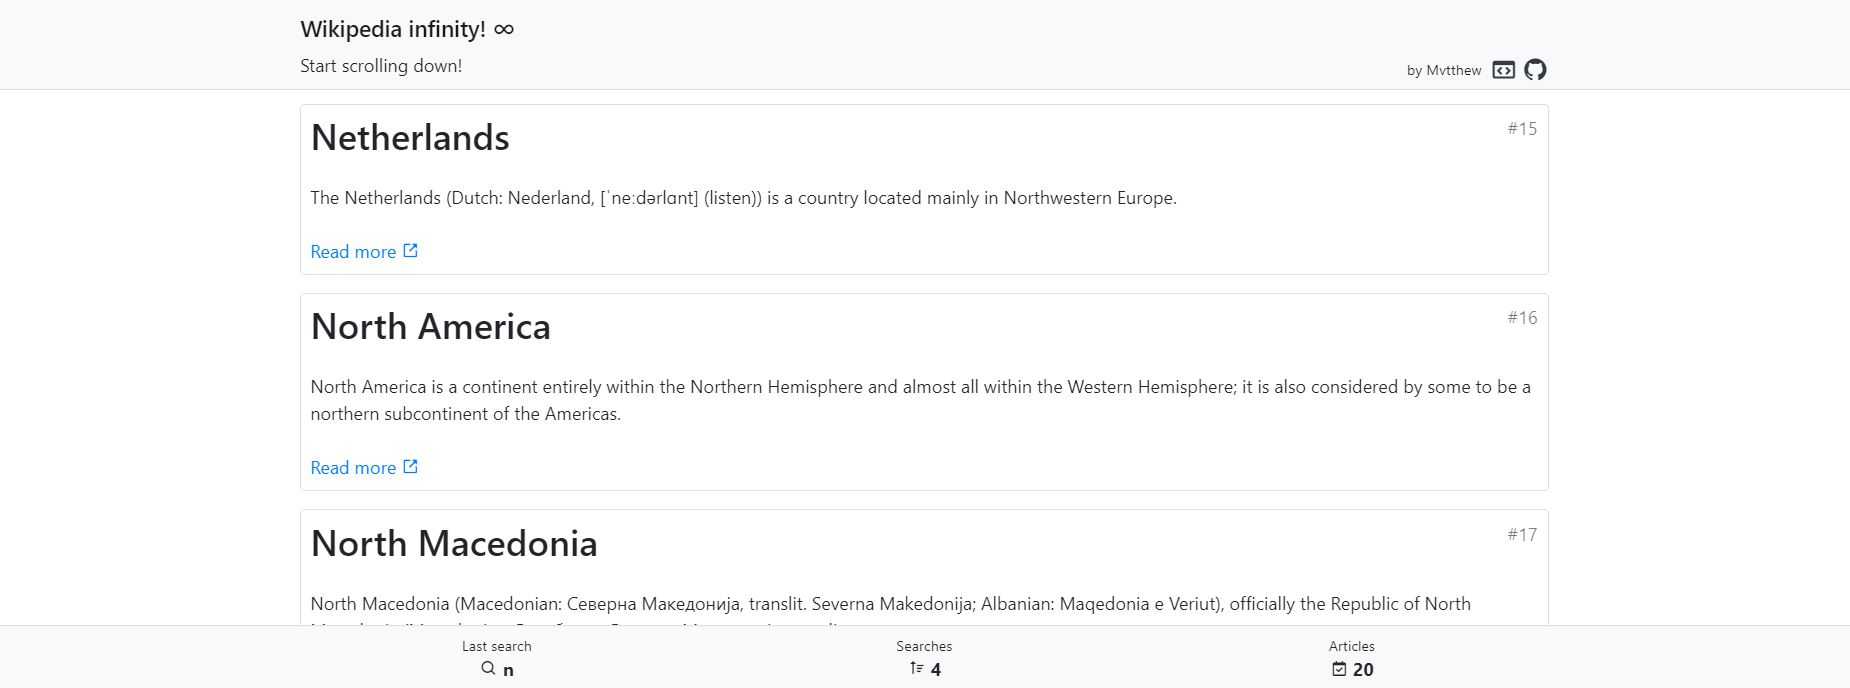
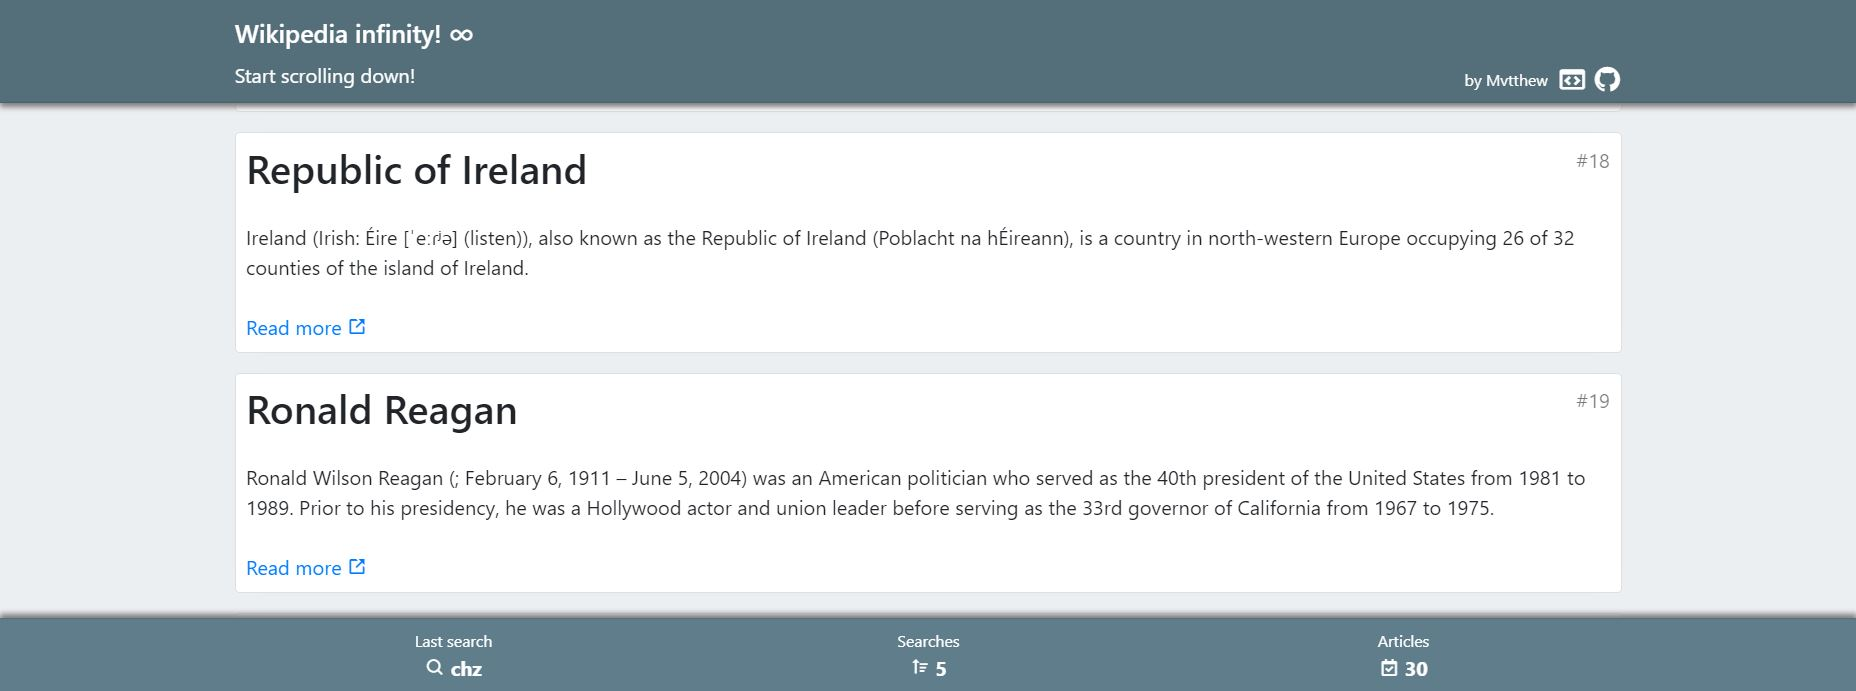
Adding material colors

diff --git a/src/views/Infinity.vue b/src/views/Infinity.vue
@@ -1,19 +1,19 @@
 <template>
     <div class="infinity">
-        <nav class="navbar navbar-light bg-light">
+        <nav class="navbar navbar-dark">
             <div class="container">
                 <span class="navbar-brand mb-0 h1">Wikipedia infinity! <i class='bx bxf bx-infinite'></i></span>
             </div>
             <div class="container">
-                <p class="m-0">
+                <p class="m-0 text-white">
                     Start scrolling down!
                 </p>
-                <p class="ml-auto mb-0 small">by Mvtthew
+                <p class="ml-auto mb-0 small text-white">by Mvtthew
                     <a href="https://mvtthew.pl" class="ml-1" target="_blank">
-                        <i class='bx bx-code-block text-dark m-0 h4 position-relative' style="bottom: -5px"></i>
+                        <i class='bx bx-code-block m-0 h4 position-relative text-white' style="bottom: -5px"></i>
                     </a>
                     <a href="https://github.com/Mvtthew/wikipedia-infinity-scroll" class="ml-1" target="_blank">
-                        <i class='bx bxl-github text-dark m-0 h4 position-relative' style="bottom: -5px"></i>
+                        <i class='bx bxl-github m-0 h4 position-relative text-white' style="bottom: -5px"></i>
                     </a>
                 </p>
             </div>
@@ -137,22 +137,35 @@
 </script>
 
 <style>
+    body{
+        background-color: #ECEFF1;
+    }
+
+    .card{
+        background-color: #fff;
+        box-shadow: 0px 0px 21px -17px rgba(0,0,0,0.75);
+    }
+
     .navbar {
         position: sticky;
         top: 0;
         z-index: 10000;
         border-bottom: 1px solid rgba(0, 0, 0, 0.1);
         padding: 0.5rem 0.1rem;
+        background-color: #546E7A;
+        box-shadow: 0 4px 6px -1px gray;
     }
 
     .last-search {
         position: fixed;
         bottom: 0;
         z-index: 10000;
-        background: #f8f9fa !important;
+        background: #607D8B !important;
         border-top: 1px solid rgba(0, 0, 0, 0.1);
         width: 100%;
         padding: 0.5rem 0.1rem;
+        color: #fff;
+        box-shadow: 0 -4px 6px -1px gray;
     }
 
     .loading {
